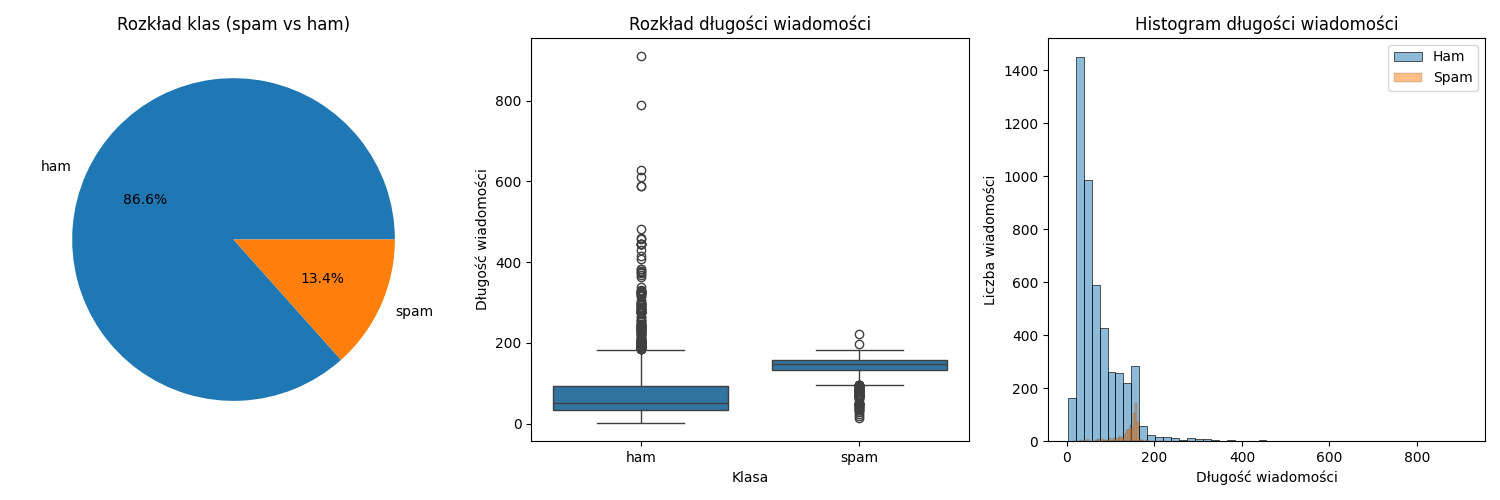
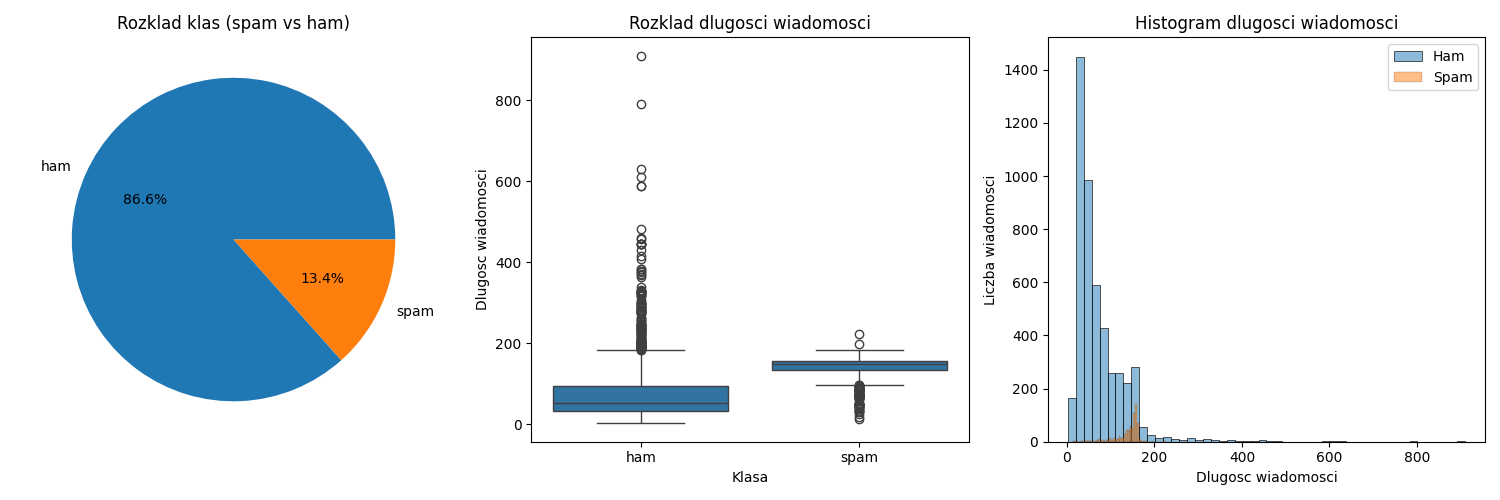
Added code improvements and imagees with result

diff --git a/src/klasyfikator_sms.py b/src/klasyfikator_sms.py
@@ -23,8 +23,8 @@ class ProcesorDanych:
         Inicjalizacja procesora danych.
         
         Parametry:
-        - max_features: maksymalna liczba słów w słowniku
-        - max_len: maksymalna długość sekwencji
+        - max_features: maksymalna liczba slow w slowniku
+        - max_len: maksymalna dlugosc sekwencji
         """
         self.max_features = max_features
         self.max_len = max_len
@@ -37,9 +37,9 @@ class ProcesorDanych:
     
     def przetworz_tekst(self, tekst):
         """
-        Przetwarza tekst wiadomości:
-        - zamiana na małe litery
-        - usunięcie znaków specjalnych
+        Przetwarza tekst wiadomosci:
+        - zamiana na male litery
+        - usuniecie znakow specjalnych
         - tokenizacja
         """
         tekst = tekst.lower()
@@ -50,18 +50,18 @@ class ProcesorDanych:
     def przygotuj_dane(self, dane, test_size=0.2, random_state=42):
         """
         Przygotowuje dane do treningu:
-        - przetwarza wiadomości
+        - przetwarza wiadomosci
         - koduje etykiety
-        - dzieli na zbiór treningowy i testowy
-        - tokenizuje i dopełnia sekwencje
+        - dzieli na zbior treningowy i testowy
+        - tokenizuje i dopelnia sekwencje
         """
-        print("Przetwarzanie wiadomości...")
+        print("Przetwarzanie wiadomosci...")
         dane['processed_message'] = dane['message'].apply(self.przetworz_tekst)
         
         print("Kodowanie etykiet...")
         dane['encoded_label'] = self.label_encoder.fit_transform(dane['label'])
         
-        print("Podział danych na zbiór treningowy i testowy...")
+        print("Podzial danych na zbior treningowy i testowy...")
         X_train, X_test, y_train, y_test = train_test_split(
             dane['processed_message'],
             dane['encoded_label'],
@@ -75,14 +75,14 @@ class ProcesorDanych:
         X_train_seq = self.tokenizer.texts_to_sequences(X_train)
         X_test_seq = self.tokenizer.texts_to_sequences(X_test)
         
-        print("Dopełnianie sekwencji...")
+        print("Dopelnianie sekwencji...")
         X_train_pad = pad_sequences(X_train_seq, maxlen=self.max_len)
         X_test_pad = pad_sequences(X_test_seq, maxlen=self.max_len)
         
         return X_train_pad, X_test_pad, y_train, y_test
     
     def pobierz_rozmiar_slownika(self):
-        """Zwraca rozmiar słownika."""
+        """Zwraca rozmiar slownika."""
         return min(len(self.tokenizer.word_index) + 1, self.max_features)
 
 # ================ MODEL SIECI NEURONOWEJ ================
@@ -93,8 +93,8 @@ class KlasyfikatorSMS:
         Inicjalizacja klasyfikatora.
         
         Parametry:
-        - vocab_size: rozmiar słownika
-        - max_len: maksymalna długość sekwencji
+        - vocab_size: rozmiar slownika
+        - max_len: maksymalna dlugosc sekwencji
         - embedding_dim: wymiar embeddingu
         """
         self.vocab_size = vocab_size
@@ -188,13 +188,13 @@ def rysuj_historie_treningu(historia):
     
     plt.figure(figsize=(10, 5))
     
-    # Wykres dokładności
+    # Wykres dokladnosci
     plt.subplot(1, 2, 1)
-    plt.plot(historia.history['accuracy'], label='Dokładność treningu')
-    plt.plot(historia.history['val_accuracy'], label='Dokładność walidacji')
-    plt.title('Dokładność modelu')
+    plt.plot(historia.history['accuracy'], label='Dokladnosc treningu')
+    plt.plot(historia.history['val_accuracy'], label='Dokladnosc walidacji')
+    plt.title('Dokladnosc modelu')
     plt.xlabel('Epoka')
-    plt.ylabel('Dokładność')
+    plt.ylabel('Dokladnosc')
     plt.legend()
     
     # Wykres funkcji straty
@@ -211,11 +211,11 @@ def rysuj_historie_treningu(historia):
     plt.close()
 
 def rysuj_macierz_pomylek(y_true, y_pred):
-    """Rysuje macierz pomyłek."""
+    """Rysuje macierz pomylek."""
     cm = confusion_matrix(y_true, y_pred)
     plt.figure(figsize=(8, 6))
     sns.heatmap(cm, annot=True, fmt='d', cmap='Blues')
-    plt.title('Macierz pomyłek')
+    plt.title('Macierz pomylek')
     plt.ylabel('Prawdziwa etykieta')
     plt.xlabel('Przewidziana etykieta')
     plt.savefig('wyniki/wykresy/macierz_pomylek.png')
@@ -224,7 +224,7 @@ def rysuj_macierz_pomylek(y_true, y_pred):
 # ================ POBIERANIE DANYCH ================
 
 def pobierz_dane():
-    """Pobiera i przygotowuje zbiór danych."""
+    """Pobiera i przygotowuje zbior danych."""
     # Utworzenie katalogu na dane
     if not os.path.exists('dane'):
         os.makedirs('dane')
@@ -249,39 +249,39 @@ def pobierz_dane():
     df = pd.DataFrame(data, columns=['label', 'message'])
     df.to_csv('dane/SMSSpamCollection', sep='\t', index=False, header=False)
     
-    print("Dane zostały pobrane i przygotowane.")
-    print(f"Liczba wiadomości w zbiorze: {len(df)}")
+    print("Dane zostaly pobrane i przygotowane.")
+    print(f"Liczba wiadomosci w zbiorze: {len(df)}")
     print(f"Liczba spamu: {len(df[df['label'] == 'spam'])}")
-    print(f"Liczba wiadomości prawidłowych: {len(df[df['label'] == 'ham'])}")
+    print(f"Liczba wiadomosci prawidlowych: {len(df[df['label'] == 'ham'])}")
 
-# ================ GŁÓWNA FUNKCJA ================
+# ================ GLOWNA FUNKCJA ================
 
 def analizuj_dane(dane):
     """Tworzy wykresy analizy danych."""
     os.makedirs('wyniki/wykresy', exist_ok=True)
     
-    # 1. Rozkład klas (spam vs ham)
+    # 1. Rozklad klas (spam vs ham)
     plt.figure(figsize=(15, 5))
     plt.subplot(1, 3, 1)
     rozklad = dane['label'].value_counts()
     plt.pie(rozklad, labels=rozklad.index, autopct='%1.1f%%')
-    plt.title('Rozkład klas (spam vs ham)')
+    plt.title('Rozklad klas (spam vs ham)')
     
-    # 2. Długość wiadomości dla każdej klasy
+    # 2. Dlugosc wiadomosci dla kazdej klasy
     plt.subplot(1, 3, 2)
     dane['dlugosc'] = dane['message'].str.len()
     sns.boxplot(x='label', y='dlugosc', data=dane)
-    plt.title('Rozkład długości wiadomości')
+    plt.title('Rozklad dlugosci wiadomosci')
     plt.xlabel('Klasa')
-    plt.ylabel('Długość wiadomości')
+    plt.ylabel('Dlugosc wiadomosci')
     
-    # 3. Histogram długości wiadomości dla każdej klasy
+    # 3. Histogram dlugosci wiadomosci dla kazdej klasy
     plt.subplot(1, 3, 3)
     sns.histplot(data=dane[dane['label']=='ham'], x='dlugosc', bins=50, label='Ham', alpha=0.5)
     sns.histplot(data=dane[dane['label']=='spam'], x='dlugosc', bins=50, label='Spam', alpha=0.5)
-    plt.title('Histogram długości wiadomości')
-    plt.xlabel('Długość wiadomości')
-    plt.ylabel('Liczba wiadomości')
+    plt.title('Histogram dlugosci wiadomosci')
+    plt.xlabel('Dlugosc wiadomosci')
+    plt.ylabel('Liczba wiadomosci')
     plt.legend()
     
     plt.tight_layout()
@@ -321,8 +321,8 @@ def rysuj_krzywe_uczenia(model, X_test, y_test):
     plt.close()
 
 def main():
-    """Główna funkcja wykonująca cały proces."""
-    # Utworzenie katalogów
+    """Glowna funkcja wykonujaca caly proces."""
+    # Utworzenie katalogow
     os.makedirs('wyniki', exist_ok=True)
     os.makedirs('wyniki/wykresy', exist_ok=True)
     
@@ -335,19 +335,19 @@ def main():
     procesor = ProcesorDanych()
     
     # Wczytanie i przygotowanie danych
-    print("\nŁadowanie i przygotowywanie danych...")
+    print("\nLadowanie i przygotowywanie danych...")
     dane = procesor.wczytaj_dane("dane/SMSSpamCollection")
-    print(f"Załadowano {len(dane)} wiadomości")
+    print(f"Zaladowano {len(dane)} wiadomosci")
     print(f"Liczba spamu: {len(dane[dane['label'] == 'spam'])}")
-    print(f"Liczba wiadomości prawidłowych: {len(dane[dane['label'] == 'ham'])}")
+    print(f"Liczba wiadomosci prawidlowych: {len(dane[dane['label'] == 'ham'])}")
     
     # Analiza danych - nowe wykresy
-    print("Generowanie wykresów analizy danych...")
+    print("Generowanie wykresow analizy danych...")
     analizuj_dane(dane)
     
     # Przygotowanie danych
     X_train, X_test, y_train, y_test = procesor.przygotuj_dane(dane)
-    print("\nDane zostały przetworzone:")
+    print("\nDane zostaly przetworzone:")
     print(f"Rozmiar zbioru treningowego: {X_train.shape}")
     print(f"Rozmiar zbioru testowego: {X_test.shape}")
     
@@ -361,8 +361,8 @@ def main():
     print("\nRozpoczynam trenowanie...")
     historia = model.trenuj(X_train, y_train, X_test, y_test, epochs=20)
     
-    # Generowanie wykresów
-    print("\nGenerowanie wykresów treningu...")
+    # Generowanie wykresow
+    print("\nGenerowanie wykresow treningu...")
     rysuj_historie_treningu(historia)
     
     # Ewaluacja modelu
@@ -370,13 +370,13 @@ def main():
     loss, accuracy, precision, recall = model.ewaluuj(X_test, y_test)
     print(f"\nWyniki na zbiorze testowym:")
     print(f"Strata: {loss:.4f}")
-    print(f"Dokładność: {accuracy:.4f}")
+    print(f"Dokladnosc: {accuracy:.4f}")
     print(f"Precyzja: {precision:.4f}")
-    print(f"Czułość: {recall:.4f}")
+    print(f"Czulosc: {recall:.4f}")
     
-    # Generowanie predykcji i macierzy pomyłek
+    # Generowanie predykcji i macierzy pomylek
     y_pred = (model.przewiduj(X_test) > 0.5).astype(int)
-    print("\nGenerowanie macierzy pomyłek...")
+    print("\nGenerowanie macierzy pomylek...")
     rysuj_macierz_pomylek(y_test, y_pred)
     
     # Generowanie krzywych uczenia
@@ -389,7 +389,7 @@ def main():
     
     # Zapisanie modelu
     model.zapisz_model('wyniki/koncowy_model.h5')
-    print("\nModel został zapisany w wyniki/koncowy_model.h5")
+    print("\nModel zostal zapisany w wyniki/koncowy_model.h5")
 
 if __name__ == "__main__":
     main() 
